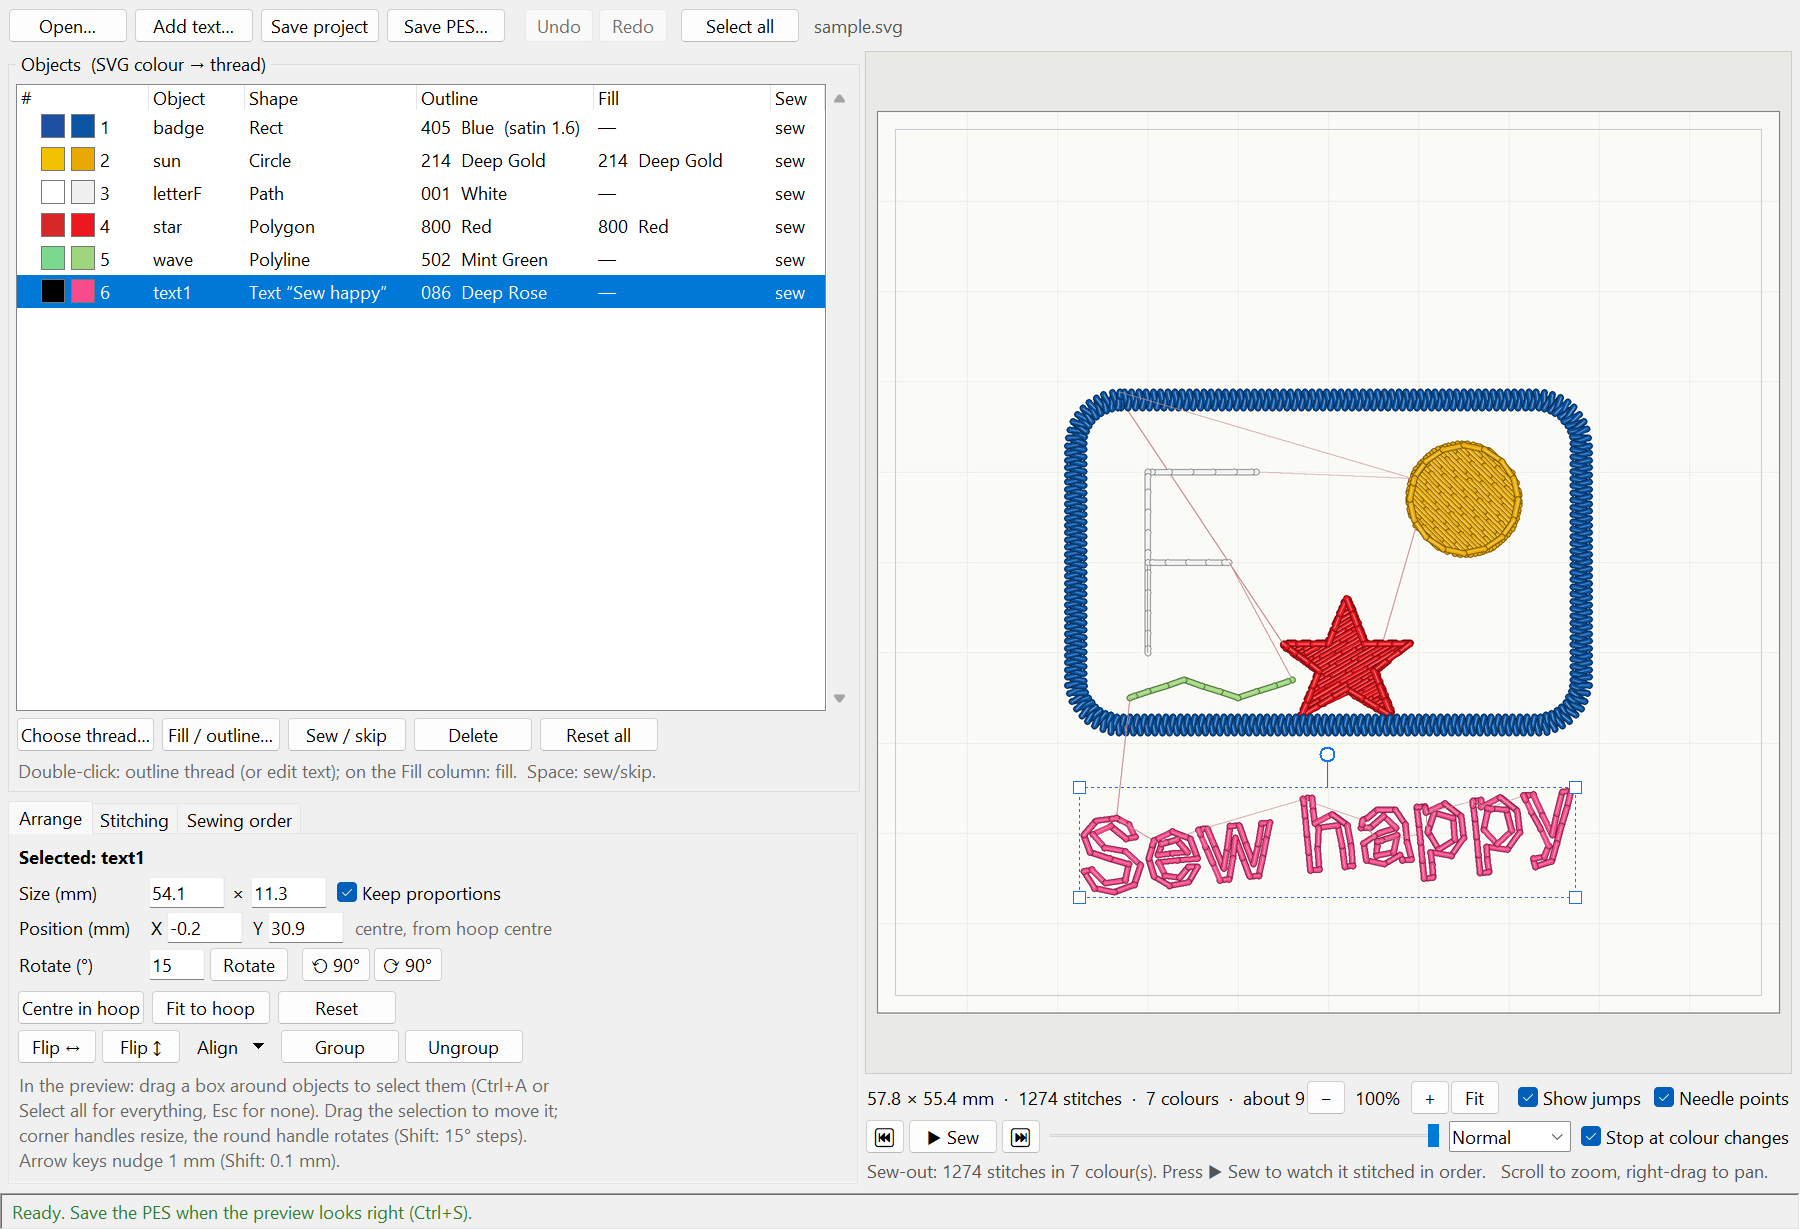
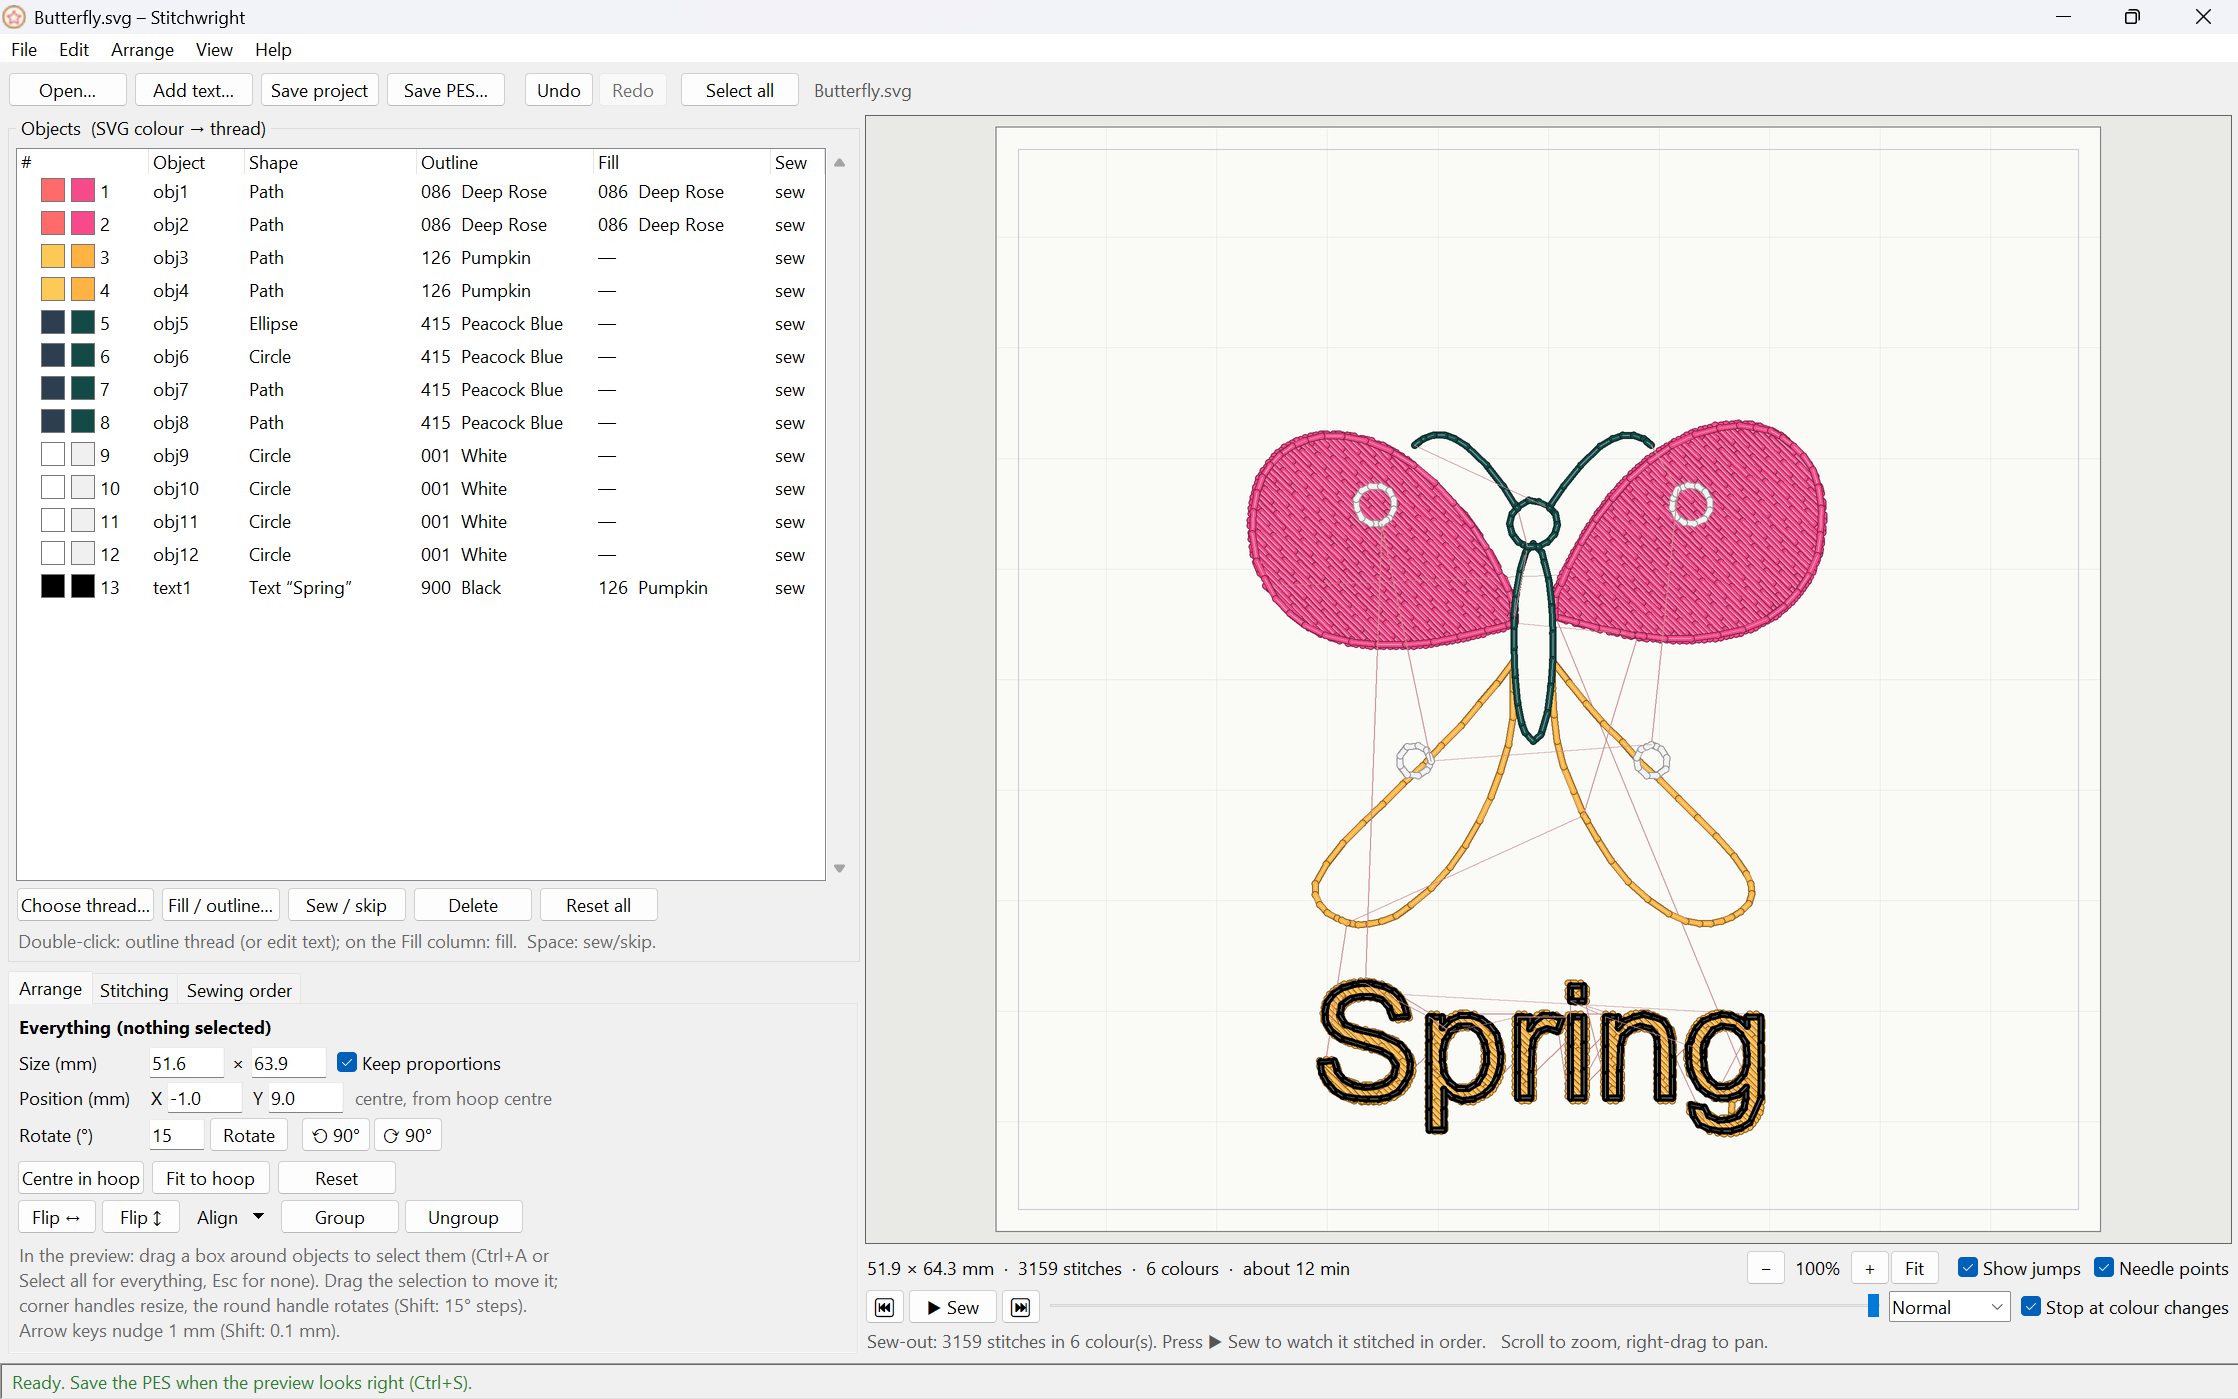
README: new screenshot (butterfly with filled wings and 'Spring' lettering)

diff --git a/README.md b/README.md
@@ -9,7 +9,7 @@ and filled areas (tatami fill with underlay).
 
 Stitchwright was called *svg2pes* before version 0.2.1.
 
-![Stitchwright window](docs/screenshot.png)
+![The Stitchwright window: a butterfly with filled wings and "Spring" lettering filled in Pumpkin with a Black outline, ready to save as a PES file](docs/screenshot.png)
 
 ## Features
 
